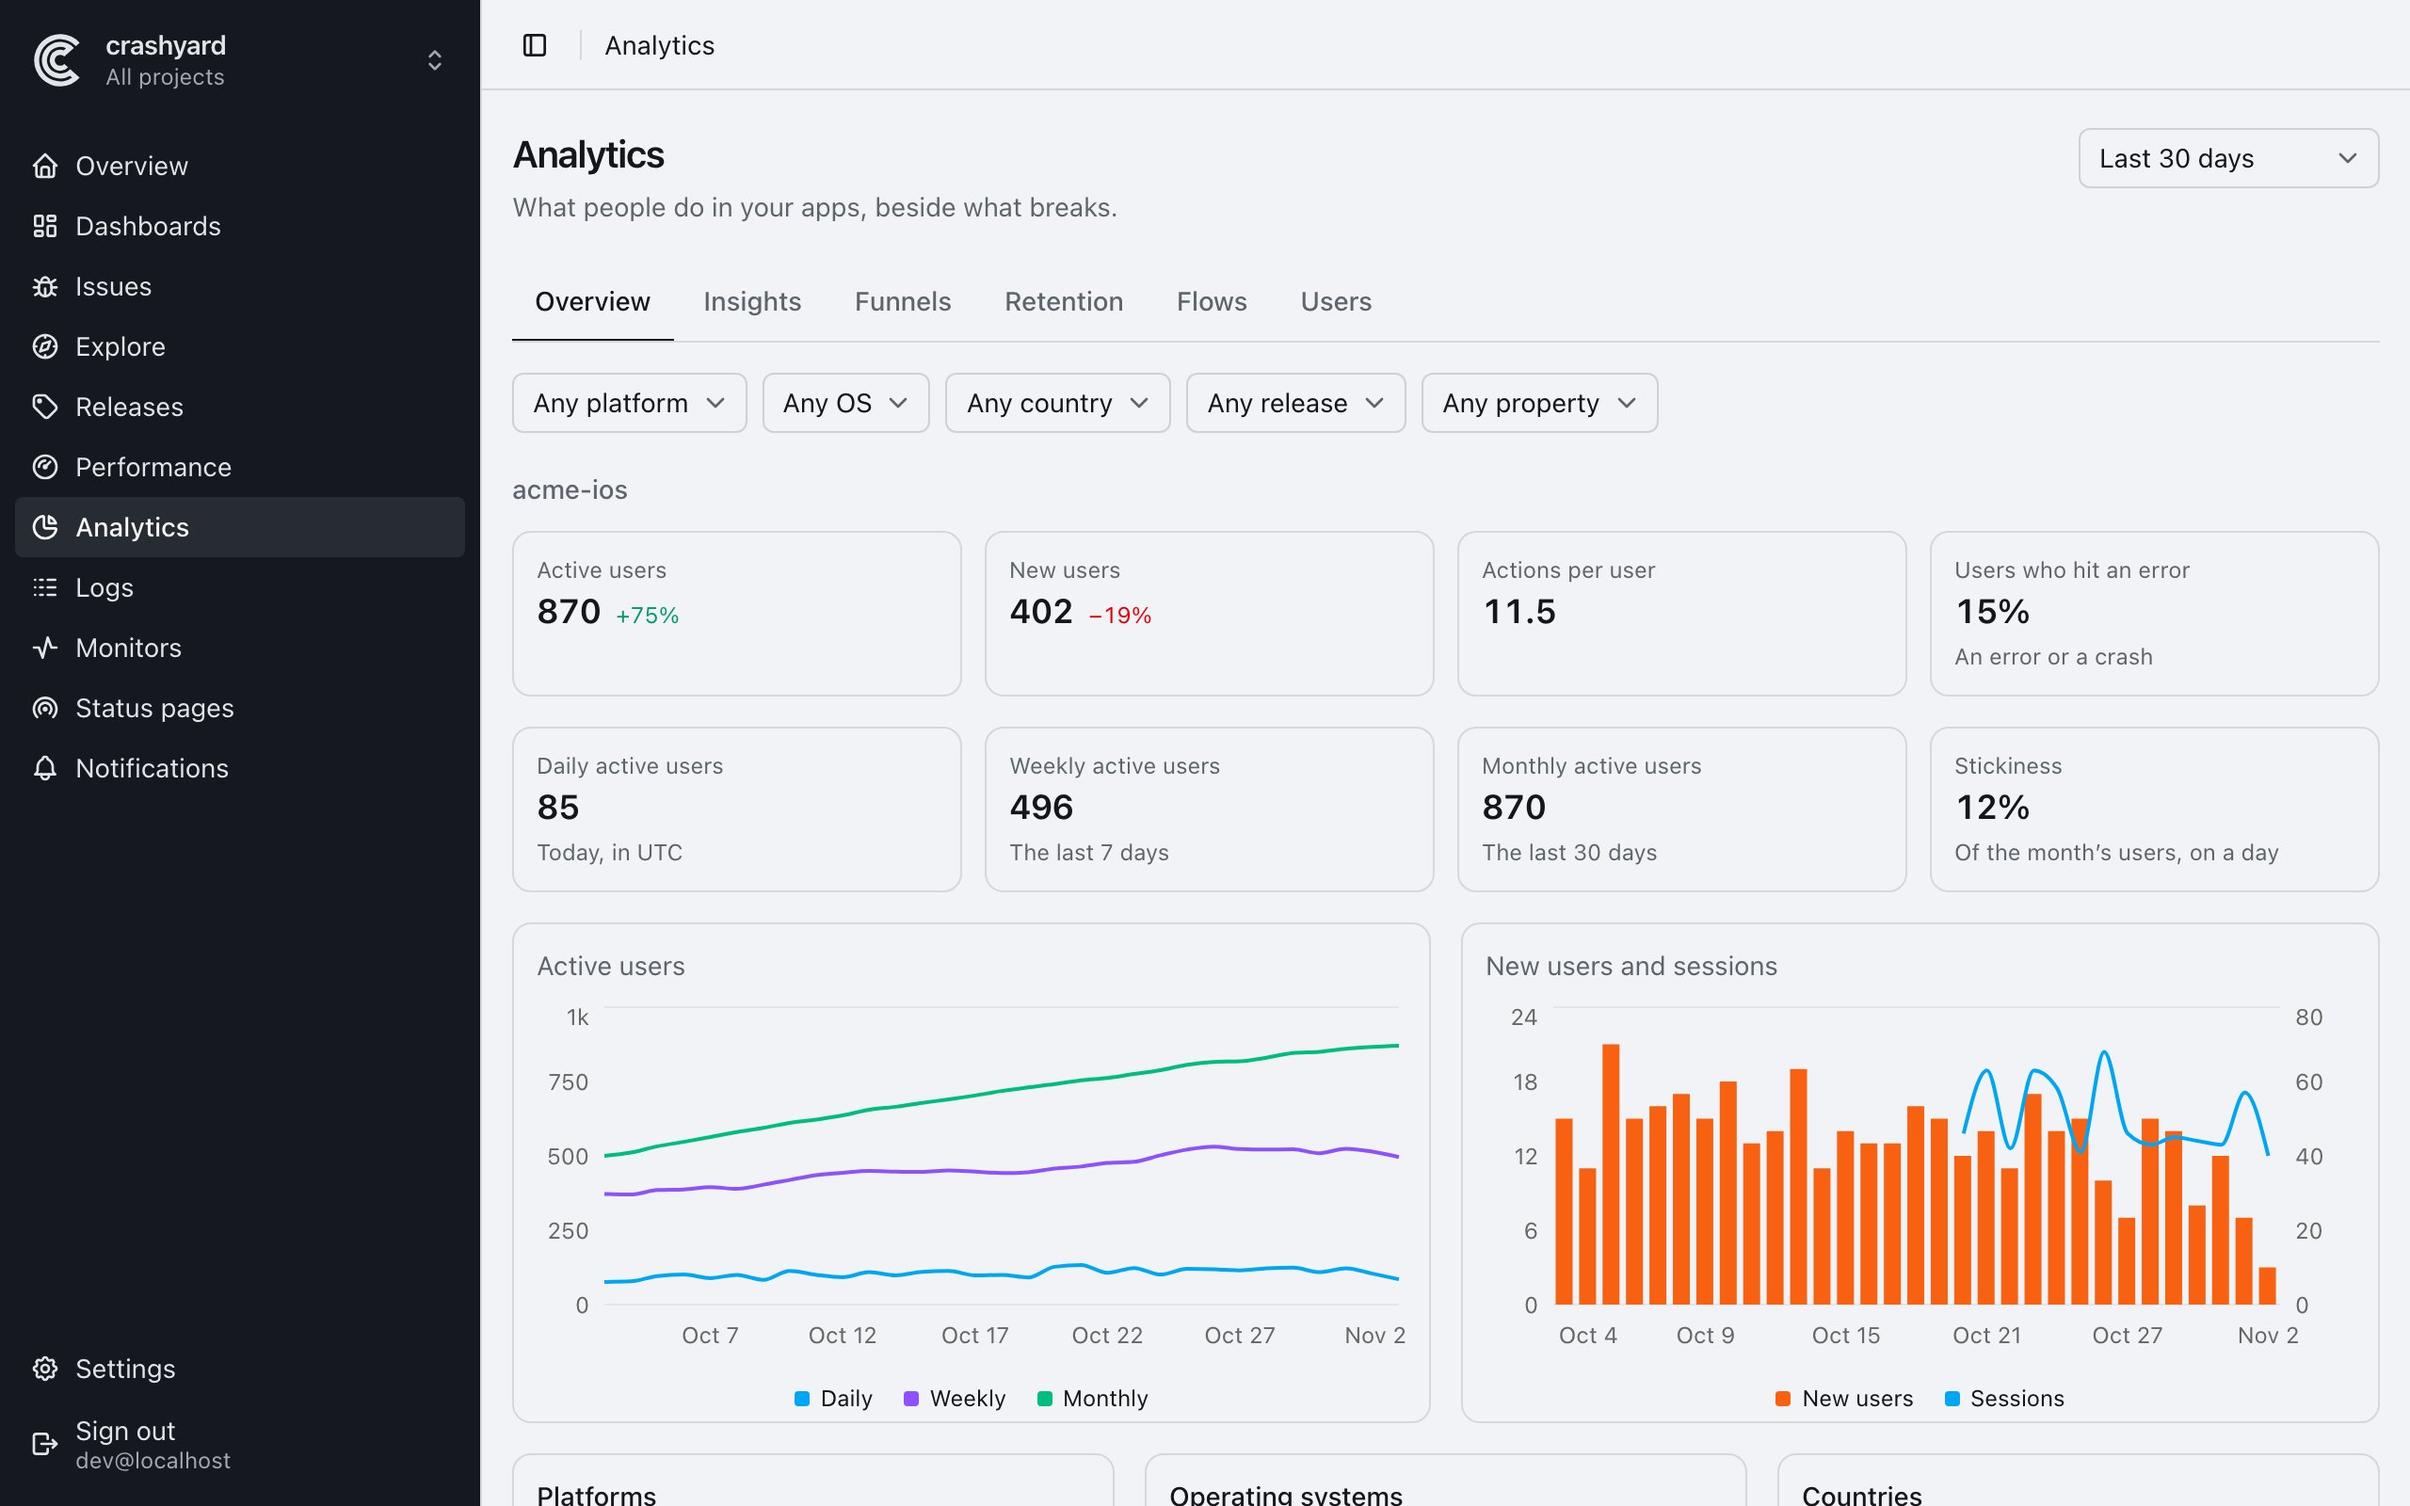
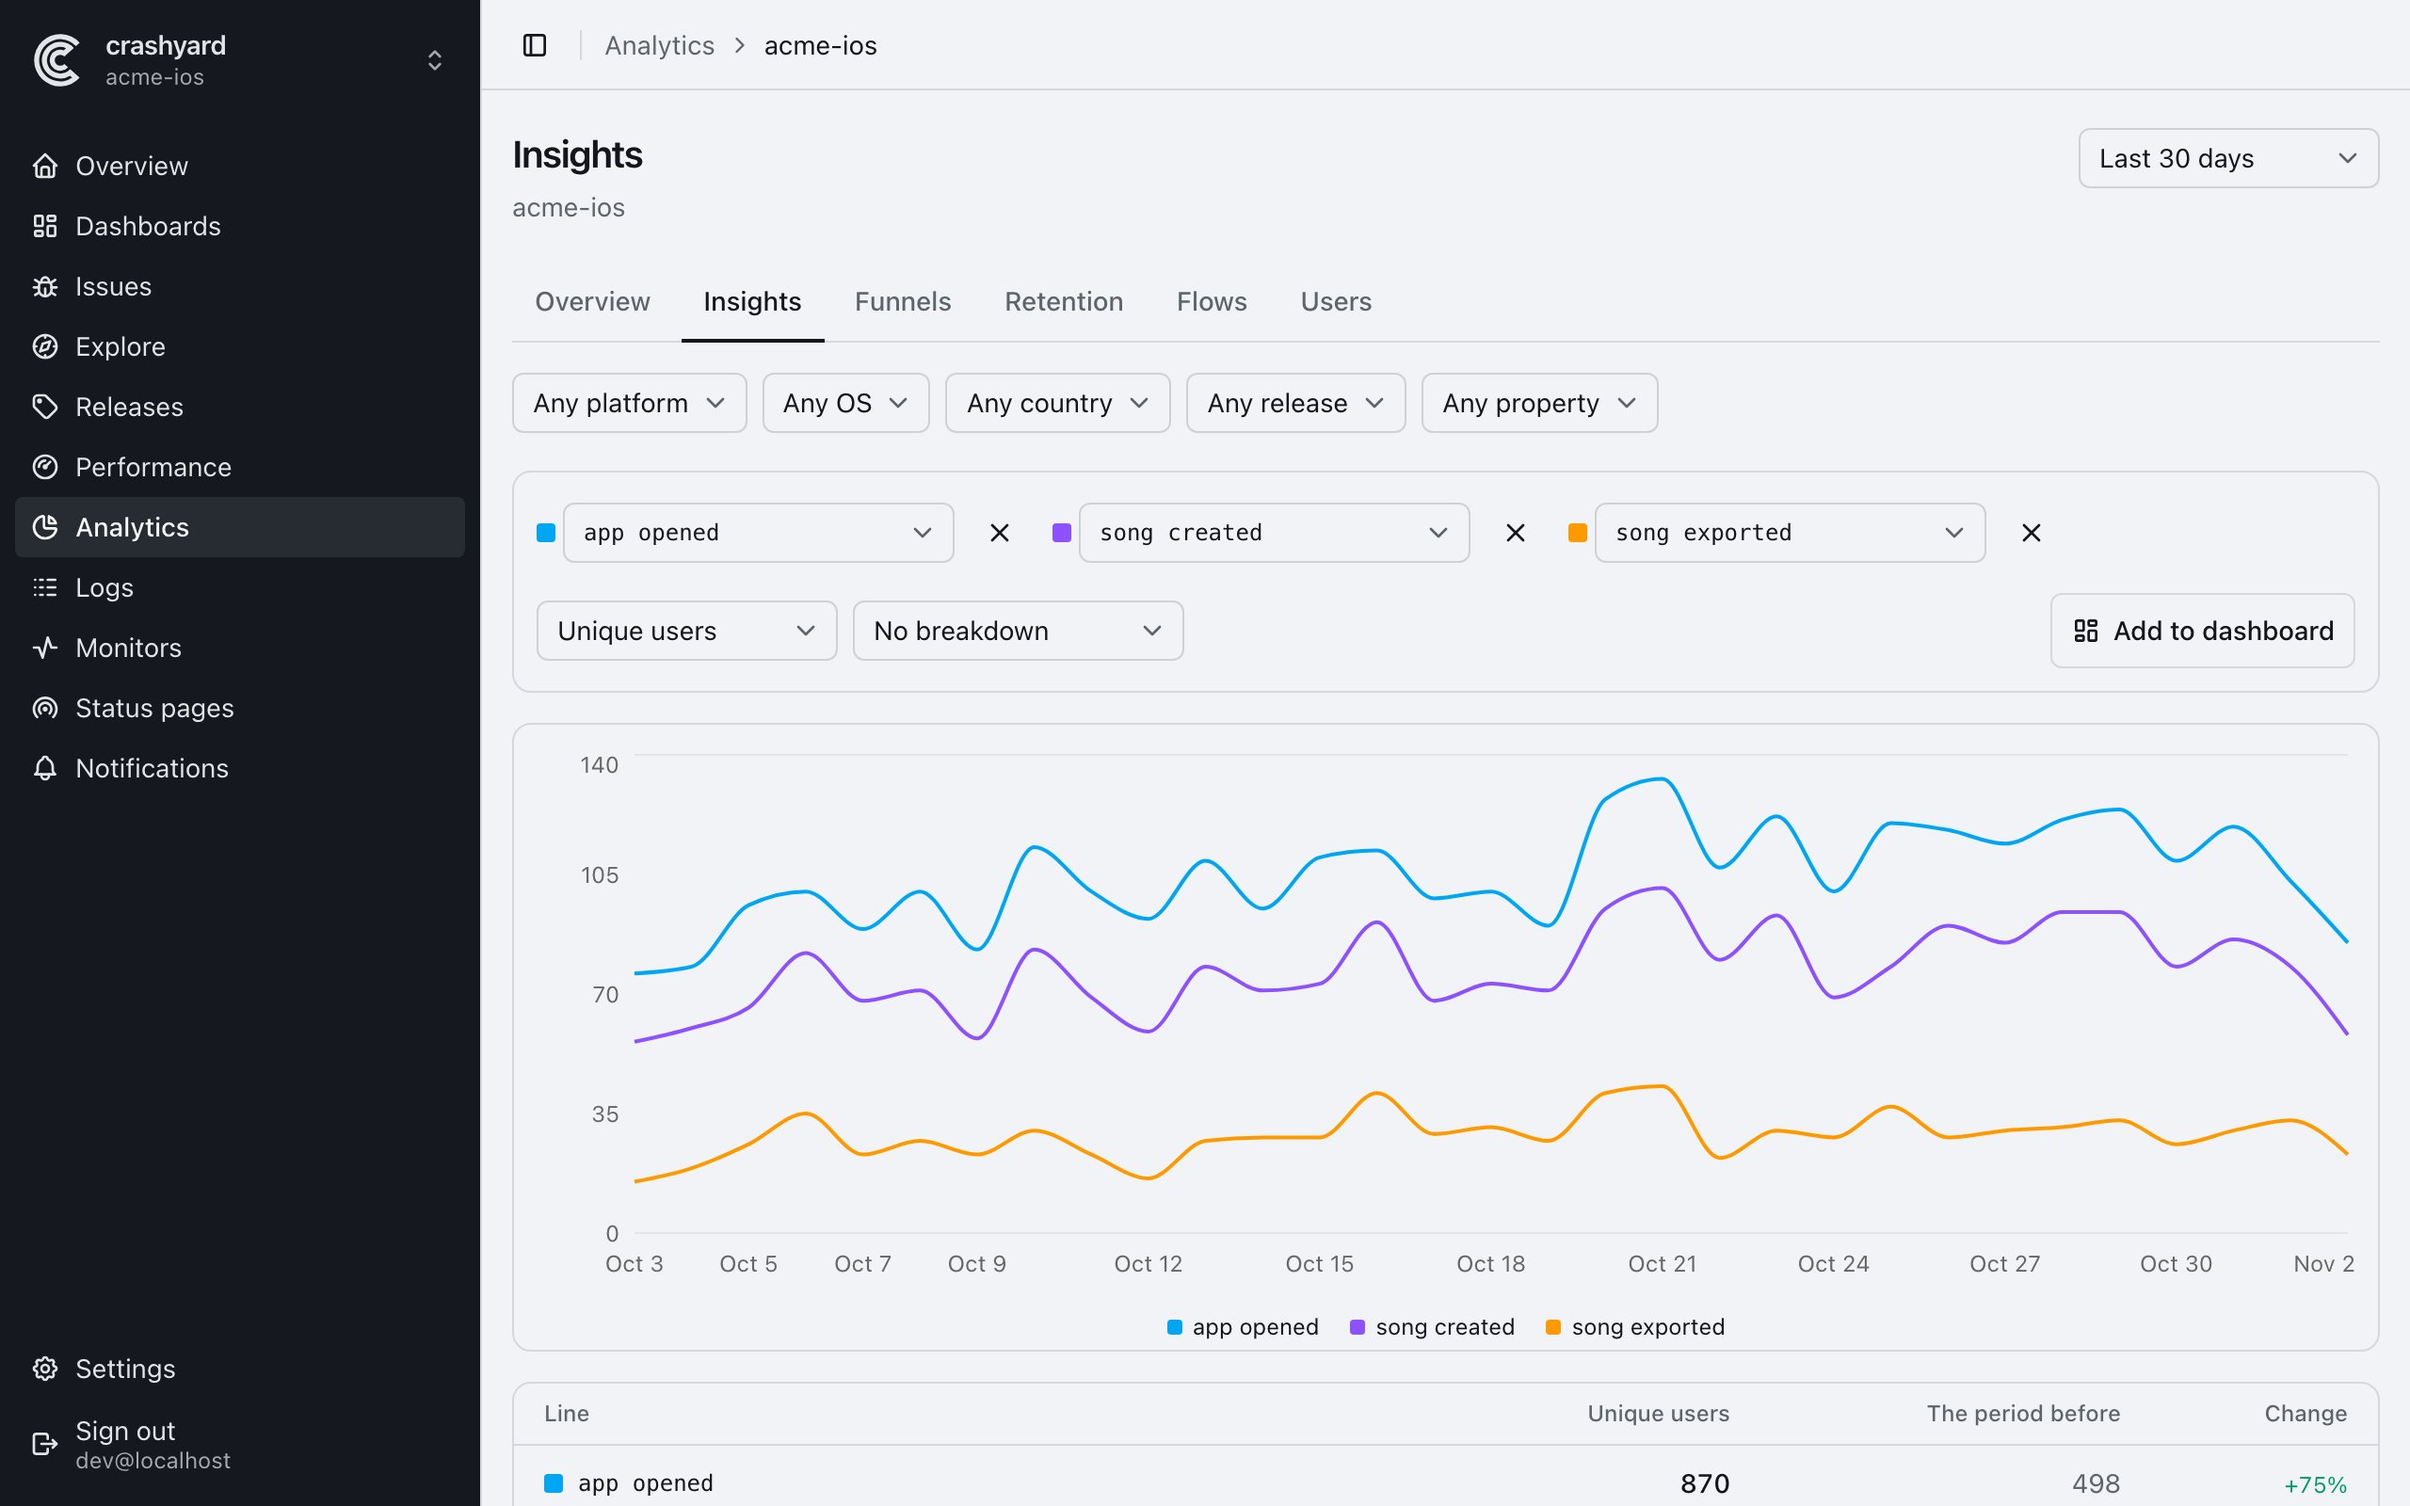
docs(site): Insights comparing three actions as the Analytics tab's screenshot

diff --git a/site/index.html b/site/index.html
@@ -220,8 +220,8 @@
           <ul class="mt-1 grid list-disc gap-1.5 pl-[18px] text-[15px] text-fg-2 marker:text-accent"><li>Funnels that show who hit an error before stopping, and which issue</li><li>Retention with and without an error in the first week</li><li>Insights, flows and each person's timeline</li><li>Users only as hashes, no IPs or emails</li><li>Shares the daily log limit</li></ul>
         </div>
         <div class="overflow-hidden rounded-[14px] border border-border bg-card shadow-card"><div class="max-sm:aspect-[4/3.7] max-sm:overflow-hidden">
-          <img class="w-full max-sm:h-full max-sm:object-cover max-sm:object-[0_0] dark:hidden" src="/images/analytics-light.jpg" width="2560" height="1600" loading="lazy" alt="Analytics for acme-ios over 30 days: 870 active users, 402 new, 15% hit an error, with daily, weekly and monthly active users">
-          <img class="w-full max-sm:h-full max-sm:object-cover max-sm:object-[0_0] hidden dark:block" src="/images/analytics-dark.jpg" width="2560" height="1600" loading="lazy" alt="Analytics for acme-ios over 30 days: 870 active users, 402 new, 15% hit an error, with daily, weekly and monthly active users">
+          <img class="w-full max-sm:h-full max-sm:object-cover max-sm:object-[0_0] dark:hidden" src="/images/analytics-light.jpg" width="2560" height="1600" loading="lazy" alt="Insights for acme-ios over 30 days: unique users a day who opened the app, created a song and exported one, each against the period before">
+          <img class="w-full max-sm:h-full max-sm:object-cover max-sm:object-[0_0] hidden dark:block" src="/images/analytics-dark.jpg" width="2560" height="1600" loading="lazy" alt="Insights for acme-ios over 30 days: unique users a day who opened the app, created a song and exported one, each against the period before">
         </div></div>
       </div>
       <div class="mt-6 grid gap-6 xl:grid-cols-[300px_1fr] xl:items-start xl:gap-10" role="tabpanel" id="t-monitors" aria-labelledby="tb-monitors" tabindex="0" hidden>

diff --git a/site/AGENTS.md b/site/AGENTS.md
@@ -28,7 +28,7 @@ pnpm site:deploy   # build to site/dist and deploy it; the custom domains create
   - Grey text and Yes and No in the plans table are 4.5:1 or more.
   - Icons are `<use>` of a symbol carrying its stroke, `aria-hidden`, beside text.
 - `public/images/`: the app's screenshots (sample apps acme-ios, acme-web, sync from `pnpm seed`, light and dark,
-  2560 × 1600), `analytics-*.jpg`, Analytics' Overview for All projects, with `pnpm seed`'s pocketband and notes-web renamed acme-ios and acme-web in the local database first, at 1280 × 800 twice over, `status-*.jpg`, a Brightpan status page with an open incident and planned maintenance, rendered from a
+  2560 × 1600), `analytics-*.jpg`, Analytics' Insights of acme-ios comparing app opened, song created and song exported, with `pnpm seed`'s pocketband and notes-web renamed acme-ios and acme-web in the local database first, at 1280 × 800 twice over, `status-*.jpg`, a Brightpan status page with an open incident and planned maintenance, rendered from a
   throwaway local database (the demo's own page only fills its 30 days live), `og.png`, the share image (2560 × 1280,
   `og:image`, a large Twitter card, and the repo's social preview, uploaded by hand), and `logo.svg`, a copy of
   `docs/images/logo.svg`. The Status pages tab links to the demo's page, demo-status.crashyard.dev.
